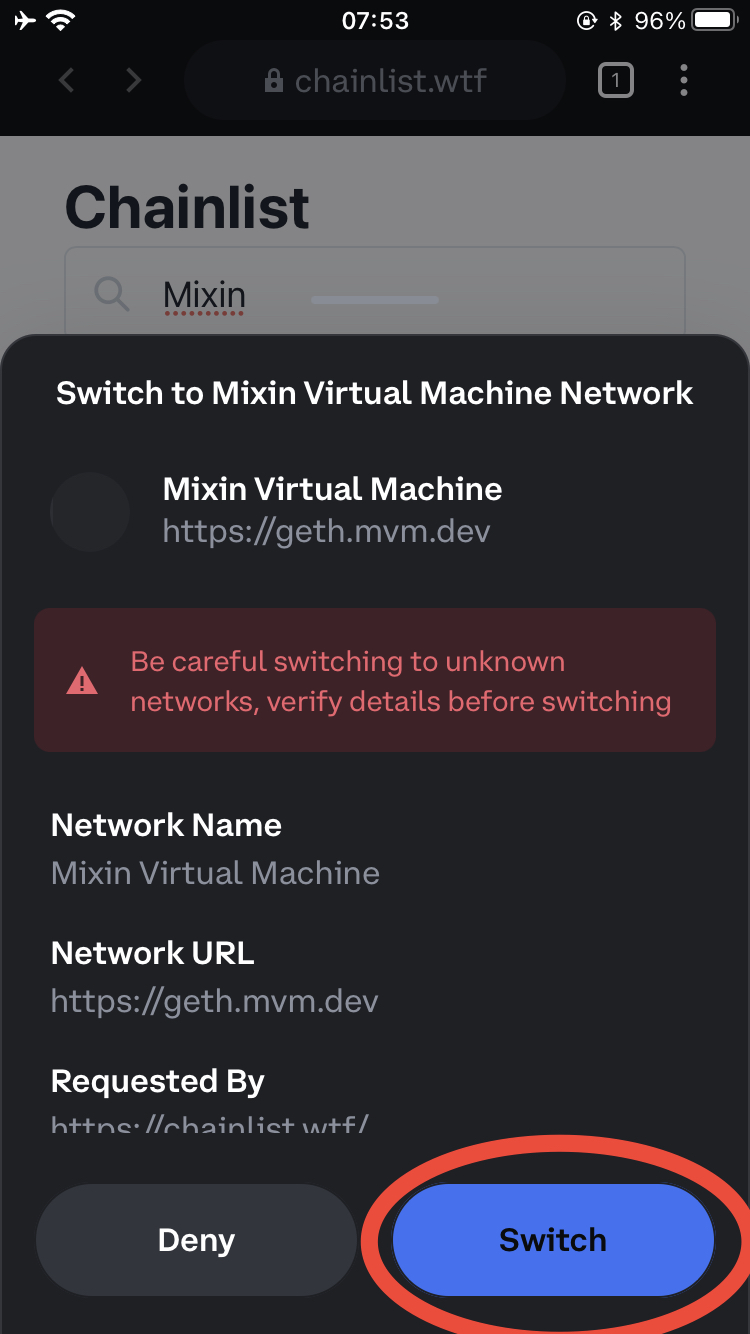
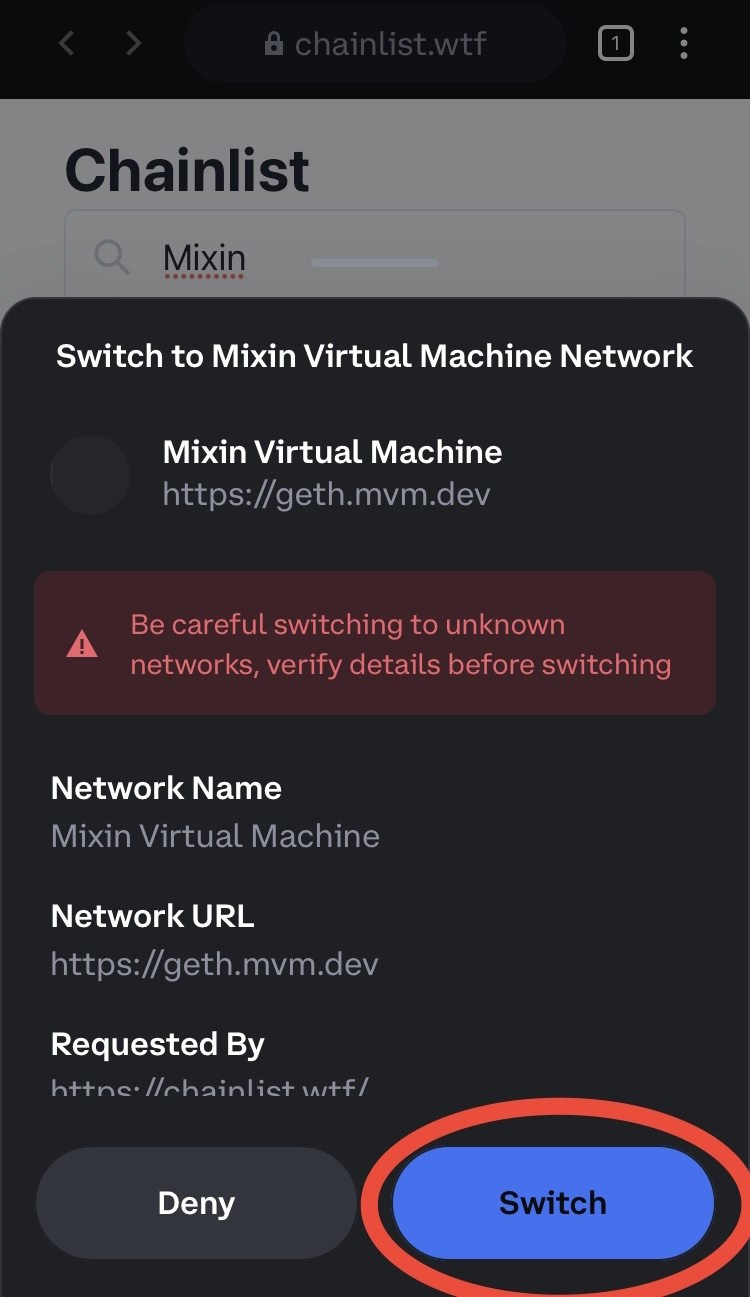
Remove header

diff --git a/src/quorum/switch_to_mvm.md b/src/quorum/switch_to_mvm.md
@@ -19,7 +19,7 @@ IOS Version: 5.6.0
 ![3](../assets/add_mvm_guide/metamask/metamask_3.jpg)
 ![4](../assets/add_mvm_guide/metamask/metamask_4.jpg)
 3. Search `Mixin`
-![5](../assets/add_mvm_guide/metamask/metamask_5.PNG)
+![5](../assets/add_mvm_guide/metamask/metamask_5.jpg)
 4. Connect wallet
 ![6](../assets/add_mvm_guide/metamask/metamask_6.jpg)
 5. Add Chain
@@ -27,7 +27,7 @@ IOS Version: 5.6.0
 6. Approve
 ![8](../assets/add_mvm_guide/metamask/metamask_8.jpg)
 7. Switch Network
-![9](../assets/add_mvm_guide/metamask/metamask_9.PNG)
+![9](../assets/add_mvm_guide/metamask/metamask_9.jpg)
 Well done!
 
 ## [TokenPocket](#switch-to-mvm-mainnet)
@@ -55,11 +55,11 @@ IOS Version: 1.9.0
 10. If you have ETH wallet already, you can click on `One-key Sync`
 ![11](../assets/add_mvm_guide/tp/tp_11.jpg)
 11. Select `Ethereum` if you have ETH wallet, or any other network you have.
-![12](../assets/add_mvm_guide/tp/tp_12.PNG)
+![12](../assets/add_mvm_guide/tp/tp_12.jpg)
 12. Click on `Start syncing`
 ![13](../assets/add_mvm_guide/tp/tp_13.jpg)
 13. Well done!
-![14](../assets/add_mvm_guide/tp/tp_14.PNG)
+![14](../assets/add_mvm_guide/tp/tp_14.jpg)
 
 ## [ImToken](#switch-to-mvm-mainnet)
 IOS Version: 2.11.0.1953
@@ -79,9 +79,9 @@ IOS Version: 28.7.0
 1. Click on `Browser`
 ![1](../assets/add_mvm_guide/coinbase/coinbase_1.jpg)
 2. Search `chainlist.wtf`
-![2](../assets/add_mvm_guide/coinbase/coinbase_2.PNG)
+![2](../assets/add_mvm_guide/coinbase/coinbase_2.jpg)
 3. Search `Mixin` and click on `Connect wallet`
-![3](../assets/add_mvm_guide/coinbase/coinbase_3.PNG)
+![3](../assets/add_mvm_guide/coinbase/coinbase_3.jpg)
 4. Click on `Add Chain`
 ![4](../assets/add_mvm_guide/coinbase/coinbase_4.jpg)
 5. Click on `Switch`

diff --git a/src/zh/quorum/switch_to_mvm.md b/src/zh/quorum/switch_to_mvm.md
@@ -20,7 +20,7 @@ IOS 版本: 5.6.0
 ![3](../assets/add_mvm_guide/metamask/metamask_3.jpg)
 ![4](../assets/add_mvm_guide/metamask/metamask_4.jpg)
 3. 搜索 `Mixin`
-![5](../assets/add_mvm_guide/metamask/metamask_5.PNG)
+![5](../assets/add_mvm_guide/metamask/metamask_5.jpg)
 4. 连接钱包
 ![6](../assets/add_mvm_guide/metamask/metamask_6.jpg)
 5. 添加网络
@@ -28,7 +28,7 @@ IOS 版本: 5.6.0
 6. 授权
 ![8](../assets/add_mvm_guide/metamask/metamask_8.jpg)
 7. 切换网络
-![9](../assets/add_mvm_guide/metamask/metamask_9.PNG)
+![9](../assets/add_mvm_guide/metamask/metamask_9.jpg)
 8. 添加成功!
 
 ## [TokenPocket](#switch-to-mvm-mainnet)
@@ -56,11 +56,11 @@ IOS 版本: 1.9.0
 10. 如果你已经有Ethereum钱包，可以点击`一键同步`
 ![11](../assets/add_mvm_guide/tp/tp_11.jpg)
 11. 选择你已有的对应钱包
-![12](../assets/add_mvm_guide/tp/tp_12.PNG)
+![12](../assets/add_mvm_guide/tp/tp_12.jpg)
 12. 点击 `开始同步`
 ![13](../assets/add_mvm_guide/tp/tp_13.jpg)
 13. 添加成功！
-![14](../assets/add_mvm_guide/tp/tp_14.PNG)
+![14](../assets/add_mvm_guide/tp/tp_14.jpg)
 
 ## [ImToken](#switch-to-mvm-mainnet)
 IOS 版本: 2.11.0.1953
@@ -80,9 +80,9 @@ IOS 版本: 28.7.0
 1. 点击 `浏览器`
 ![1](../assets/add_mvm_guide/coinbase/coinbase_1.jpg)
 2. 搜索 `chainlist.wtf`
-![2](../assets/add_mvm_guide/coinbase/coinbase_2.PNG)
+![2](../assets/add_mvm_guide/coinbase/coinbase_2.jpg)
 3. 搜索 `Mixin` 并点击 `Connect wallet`
-![3](../assets/add_mvm_guide/coinbase/coinbase_3.PNG)
+![3](../assets/add_mvm_guide/coinbase/coinbase_3.jpg)
 4. 点击 `Add Chain`
 ![4](../assets/add_mvm_guide/coinbase/coinbase_4.jpg)
 5. 点击 `切换网络`
